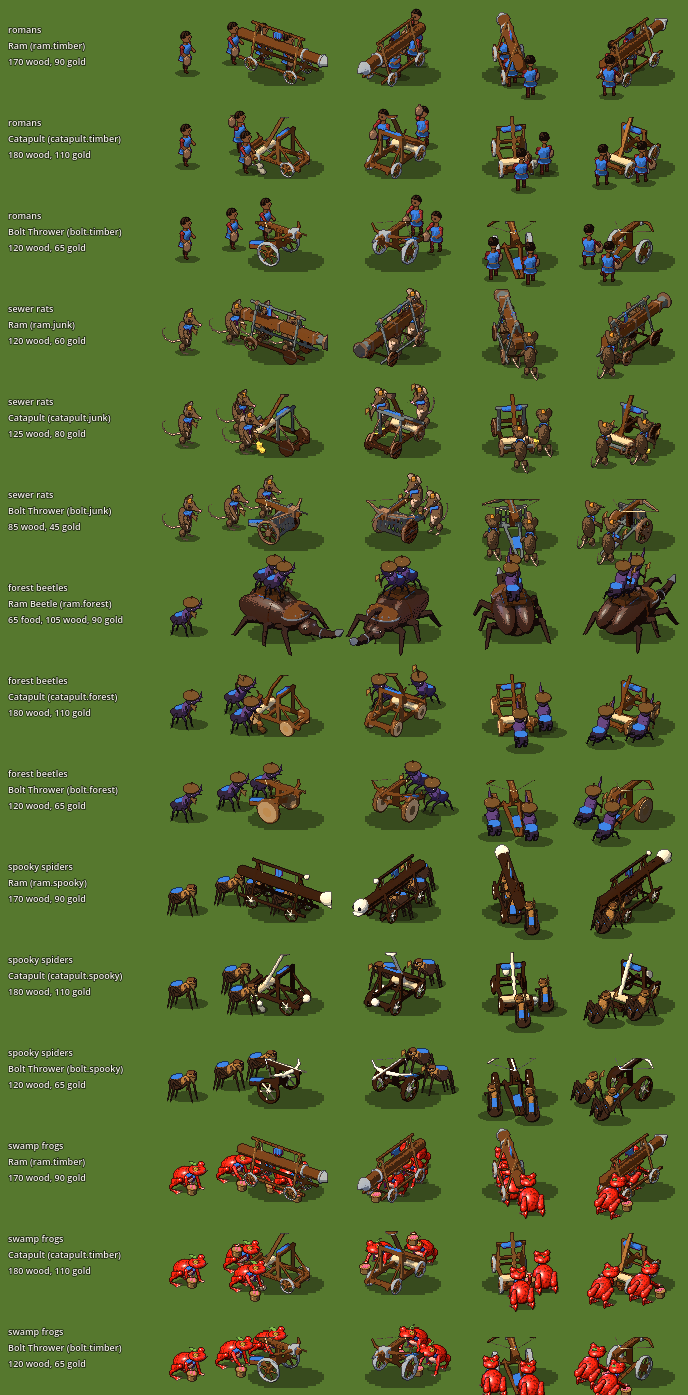
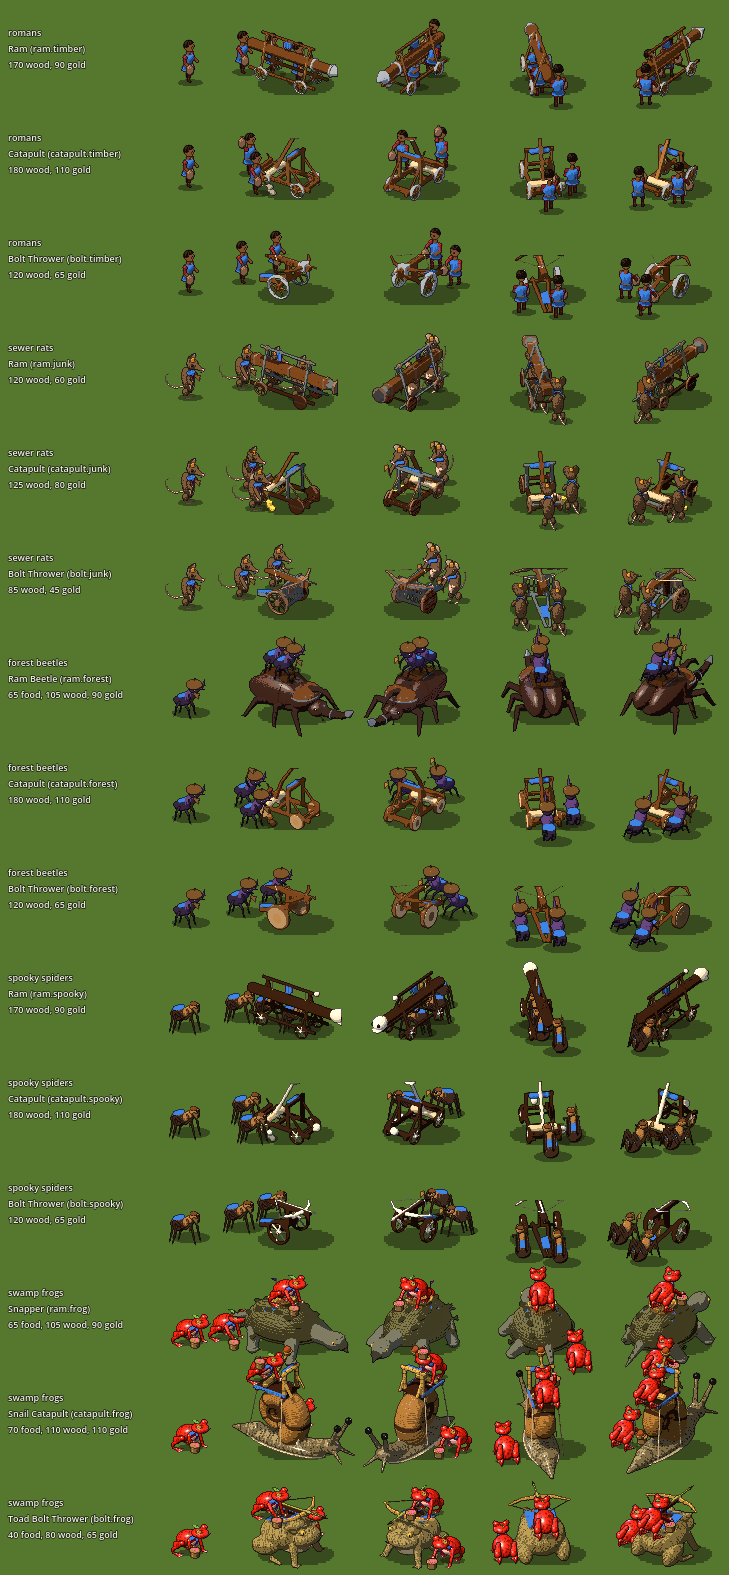
Siege for the frogs and the record (D-121, D-122): frogs build their own engines whatever their culture (creatures.json siege: frog): the snapping turtle ram, the snail carrying the reed catapult, the toad-borne bolt thrower, living beasts (healable, part food); engine pictures renumbered 270-275 af

diff --git a/docs/milestones/m13-unit-lines.md b/docs/milestones/m13-unit-lines.md
@@ -250,6 +250,57 @@ nothing in play. Notes and pictures in `docs/concepts/sw1/README.md` (round 4); 
   catapult beside the picked turtle ram and toad bolt thrower: three different beasts, the slowest
   throwing the rocks.
 
+**Siege engines built (2026-10-13; steps 2, 3b and 8's siege part).** The Siege Workshop (age 3)
+trains a ram, a catapult and a bolt thrower for every race (roster slots live, `own_seed`, each with
+`engine`). An engine's body is the engine of the race's **take** (`families.json` `siege`, a
+creature's own `siege` first): **timber** for every human culture and the swamp folk who aren't frogs
+(the open ram, arm-and-cup catapult and carriage bolt thrower, hemmed in the culture's cloth),
+**junk** for the sewer (pipes, chains, a bucket of cheese, leaf springs and a grate), **forest** (the
+ridden giant beetle ram; round 1's twig-and-acorn catapult and log-wheeled bolt thrower, crewed),
+**spooky** (round 1's dark wood and bone, crewed), and **frog** for frogs whatever their culture
+(D-121, D-122: the snapping turtle ram, the snail carrying the reed catapult, the toad-borne bolt
+thrower). Every engine is one part (`siege.<engine>.<take>`, slot `engine`) baked in 8 facings from
+`scenes/art_pixel/siege_models.gd` (the concept builders moved there; `siege_concepts.gd` keeps the
+concept ids); the crew are the race's age-1 workers (the recipe's `crew`), composed by `UnitView` on
+the crew sockets, walking while it rolls, heaving with a ram's blow, falling when it breaks.
+- **Combat** (rules `splash_*`, weapon stats in the `engine.*` parts): the catapult's stone lands on
+  a spot and hurts every unit within 1.1 tiles, `damage x (splash - gap) / splash`; **friends in it
+  take half** (`splash_friend_pct` 50: the genre's stone throwers hurt their own side; so they're for
+  crowds and towers, not your own melee), enemy buildings by the same falloff. Catapults (3 tiles)
+  and bolt throwers (2) have a **minimum range**: they don't pick foes inside it and step back from
+  one that comes in. The ram goes for **buildings only** (`targets`), +70 vs the building class
+  every 3 s, pierce armour 14 (arrows do 1), melee armour 0. Bolts fly slowly (`shot_speeds`
+  bolt_thrower 220, catapult 180) and go **through a line** (every foe on the last 2.5 tiles of the
+  flight). Weapons carry their own `reload`. Cavalry (every mount body) +4 vs siege. Machines aren't
+  healed (`heal_not`); the beasts are. Stopped melee units hitting a building get the shooters' hold
+  slack (a big body at a corner place stood just out of reach).
+- **Prices** (points through the cost curve, no special cases): ram 260 (170 wood, 90 gold), catapult
+  290, bolt thrower 185; the beasts cost some food (turtle 260, snail 290, toad 185); rats about 70%.
+  Engines move at 8 (a worker 10), are large (pop 2) and the size of a horse in the sim (radius 420;
+  500 stuck at one-tile gaps).
+- **Numbers.** Three rams break a stone gate in 0:30 and a wall in 0:26; the same cost in spears
+  takes 2:50 and 3:20, in cavalry 6:06 and 5:06 (`tests/test_ai.gd -- flat_test rams`). Mass battles
+  at age 3, 1500 a side (`tests/mass_battle.gd -- 3`, new siege matches): catapult+spear beat massed
+  archers 8 of 10 but lose to spear+archer 9 of 10 (their own spears in the splash); bolt+spear beat
+  spear+cavalry 8 of 10 and spears 6 of 10; catapults alone lose to cavalry 10 of 10, bolt throwers 8
+  of 10. The balance round robin (soldiers only) is unchanged at age 3.
+- **AI** (`data/ai.json` military.siege): the workshop goes up at 28 workers in age 3 (before the
+  second Town Center); the bot keeps at most 2 rams, 2 catapults and 1 bolt thrower, training the one
+  it has fewest of (a ram first); on its regroup beats rams go for the nearest enemy gate, wall or
+  tower in sight (else any building, else they march on the army's target), catapults for a tower
+  within 14 tiles. A bot in age 3 fields all three by 15:30.
+- **Tests:** `tests/test_sim.gd` (splash and falloff, friends at half, minimum range and the step
+  back, the ram ignoring soldiers and shrugging off arrows, a bolt through three; engines crossing
+  flat, choke and hill maps on their own), `tests/run_tests.gd` (every take builds, crews are the
+  workers), `tests/test_ai.gd` (rams vs stone, the siege bot). `tests/siege_lineup.gd` shows every
+  take in four facings. Pictures `archive/images/2026-10-13/270-` to `275-`.
+- **Cost to draw:** crews are composed, not baked in (each crew member a worker UnitView): 60 crewed
+  engines on top of 211 units stay at the frame cap (8.3 ms; `tests/art_bench.gd`, which bakes them
+  outside the atlas, so 137 draw calls there; in a match they're in the one atlas). The sim tick with
+  siege in the 200-unit script measured 2.75 ms against main's 2.79 the same hour.
+- **Open:** Dominic's look in a match; the engines' sounds reuse the stone and bolt shots and the
+  blunt hit; workers don't repair engines yet; garrisoning a ram is milestone 16's.
+
 ## Changes from the original plan
 
 - 2026-10-13: siege first (Dominic: "why we not done siege yet?"), ahead of step 1. Step 2 shrinks
